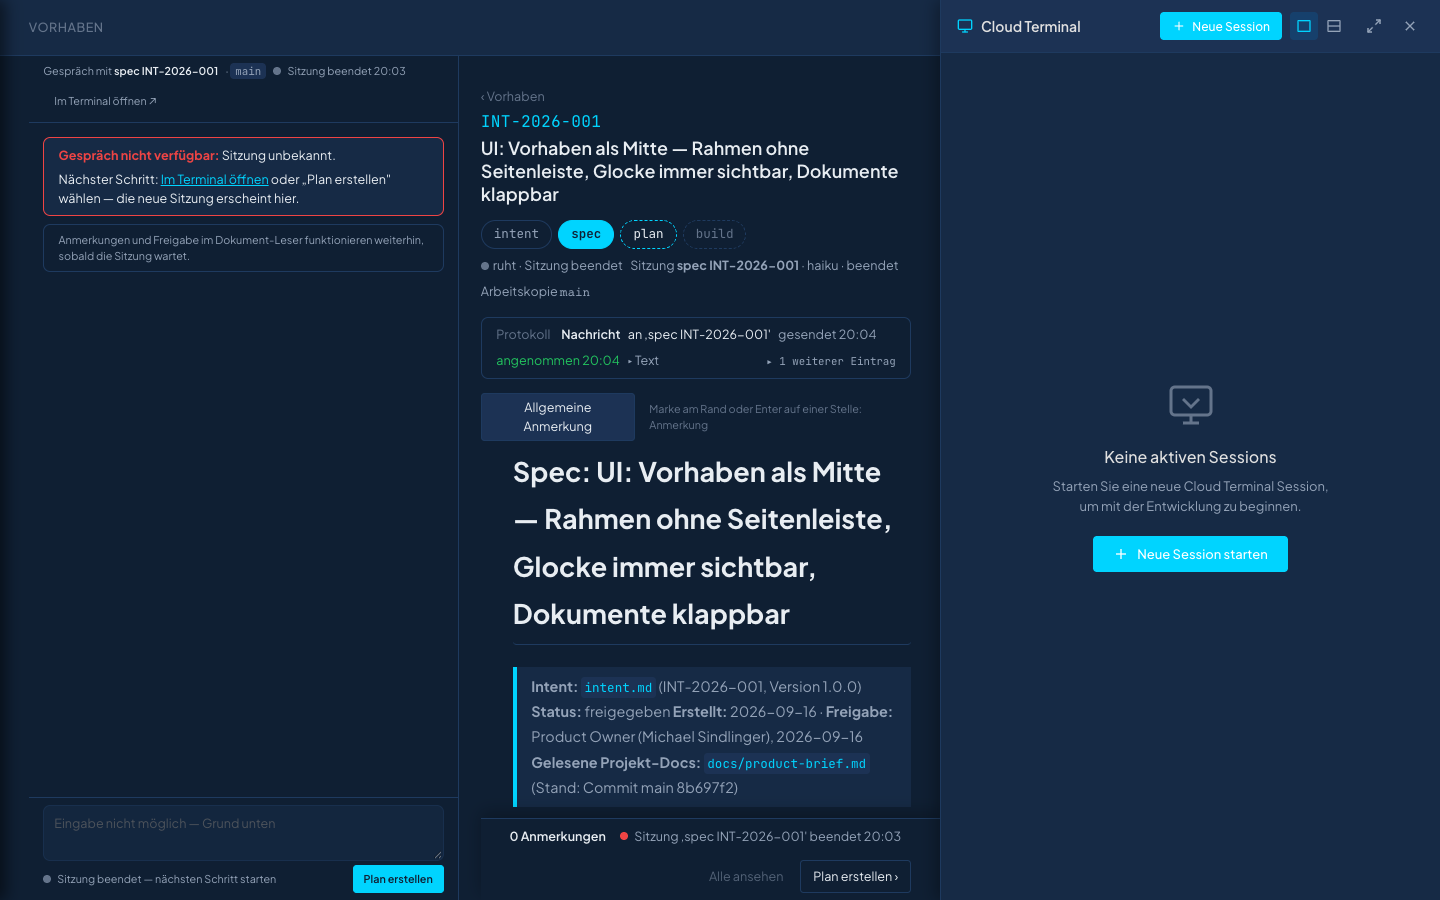
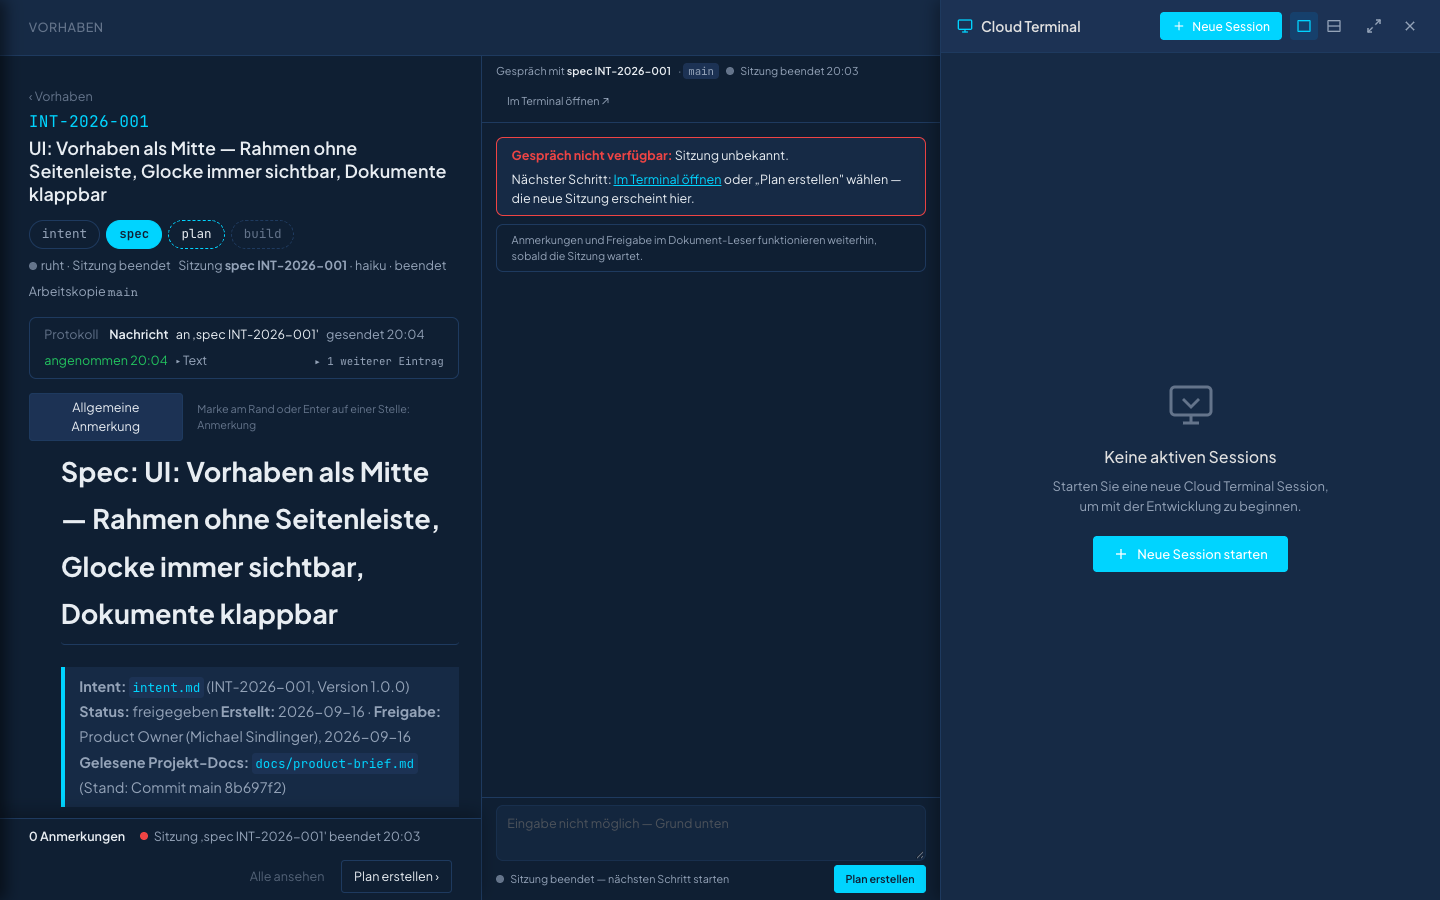
fix(INT-2026-010): Vorhaben-Seite gedreht — Dokument links, Gespräch rechts (50/50)
PO-Entscheidung nach Sicht des Split-Fix (PR #59): Gespräch doch rechts,
Dokument links, weiterhin je halbe Inhaltsbreite. Abweichung von FA-12,
festgehalten in plan §14; Spec-Text noch nicht angepasst.

DOM-Reihenfolge Seite → Gespräch (beide Routen), Grid-Spalten getauscht.
Gespräch als Panel fixiert am rechten Rand, bündig mit der Terminal-Sidebar
(Breite Spalte + View-Padding, linke Kante = Spaltenkante). Sende-Leiste von
links bis zur Gesprächskante: --gespraech-versatz ist jetzt das View-Padding,
das das Panel abdeckt. Unter 1024 px unverändert Dokument über Gespräch, das
`order` entfällt.

Nachweis: Geometrie bei 1440, 1440 + Terminal, 900 px gegen Branch-Backend
3111 (6/6, e2e-protokoll.txt, Screenshots ist-04-vorhaben-*.png neu); Tests
view-split und neue-absicht angepasst; verify: OK.

diff --git a/ui/frontend/src/styles/theme.css b/ui/frontend/src/styles/theme.css
@@ -5801,7 +5801,7 @@ aos-model-selector .model-option.selected .model-name {
   /* R-10: the split needs the full width, not the 1180 px reader column */
   max-width: none;
 }
-/* INT-2026-010 (FA-12, Skizze 3): Gespräch links, Dokument rechts, 50/50.
+/* INT-2026-010 (FA-12): Dokument links, Gespräch rechts, 50/50.
    `--gespraech-width` = half of the view's content width (viewport minus
    terminal sidebar, file tree and the view padding, minus the gap); set by
    aos-vorhaben-view as GESPRAECH_BREITE. */
@@ -5811,15 +5811,17 @@ aos-model-selector .model-option.selected .model-name {
   gap: var(--spacing-lg);
   align-items: start;
 }
-/* The first column only reserves the width; the Gespräch itself is fixed to
-   the viewport (main-content has overflow-x:hidden → sticky never engages),
-   flush with the view's left padding, above the send bar's row. */
-.vorhaben-split-gespraech {
+/* The second column only reserves the width; the Gespräch itself is fixed to
+   the viewport (main-content has overflow-x:hidden → sticky never engages) as
+   a panel flush with the terminal sidebar: column width plus the view's right
+   padding, so its left edge is the column's left edge. Above the send bar's
+   row. */
+.vorhaben-split > aos-vorhaben-seite,
+.vorhaben-split > .neue-absicht {
   grid-column: 1;
   min-width: 0;
 }
-.vorhaben-split > aos-vorhaben-seite,
-.vorhaben-split > .neue-absicht {
+.vorhaben-split-gespraech {
   grid-column: 2;
   min-width: 0;
 }
@@ -5827,10 +5829,10 @@ aos-model-selector .model-option.selected .model-name {
   position: fixed;
   top: var(--header-height, 56px);
   bottom: 0;
-  left: calc(var(--file-tree-open-width, 0px) + var(--spacing-xl));
-  width: var(--gespraech-width, 500px);
+  right: var(--terminal-open-width, 0px);
+  width: calc(var(--gespraech-width, 500px) + var(--spacing-xl));
   z-index: 40;
-  transition: left 0.3s ease, width 0.3s ease;
+  transition: right 0.3s ease, width 0.3s ease;
 }
 .gespraech {
   height: 100%;
@@ -5838,7 +5840,7 @@ aos-model-selector .model-option.selected .model-name {
   flex-direction: column;
   min-height: 0;
   background: var(--color-bg-primary);
-  border-right: 1px solid var(--color-border);
+  border-left: 1px solid var(--color-border);
   font-family: var(--font-family);
   font-size: var(--font-size-sm);
   color: var(--color-text-primary);
@@ -6680,7 +6682,7 @@ aos-projekt-seite .abschnitt-git aos-git-status-bar {
 }
 
 /* Vorhaben page below 1024 px: document above the Gespräch (FA-20, design.md §5).
-   The Gespräch comes first in the DOM (left column on the Mac) → `order` puts it below. */
+   DOM order is already document → Gespräch; the flex column only stretches both. */
 @media (max-width: 1023px) {
   aos-app .vorhaben-split {
     display: flex;
@@ -6689,7 +6691,6 @@ aos-projekt-seite .abschnitt-git aos-git-status-bar {
   }
 
   aos-app .vorhaben-split-gespraech {
-    order: 2;
     margin-top: var(--spacing-lg);
   }
 
@@ -6708,7 +6709,7 @@ aos-projekt-seite .abschnitt-git aos-git-status-bar {
   }
 
   aos-app .vorhaben-split .gespraech {
-    border-right: none;
+    border-left: none;
     border-top: 1px solid var(--color-border);
   }
 }

diff --git a/ui/tests/unit/aos-vorhaben-view-split.test.ts b/ui/tests/unit/aos-vorhaben-view-split.test.ts
@@ -121,7 +121,7 @@ describe('aos-vorhaben-view — split with Gespräch (FA-01, NZ-01)', () => {
     route = { view: 'vorhaben', segments: ['p', 'INT-2026-003'] };
   });
 
-  it('Mac + assigned session: Gespräch left, page right (FA-12, Skizze 3) with the same row; the page gets the Gespräch width (half the content width) for its send bar', async () => {
+  it('Mac + assigned session: page left, Gespräch right (FA-12, 50/50) with the same row; the page gets the Gespräch width (half the content width) for its send bar', async () => {
     const el = await view();
     stateListener!(state([row()]));
     await settle(el);
@@ -134,13 +134,14 @@ describe('aos-vorhaben-view — split with Gespräch (FA-01, NZ-01)', () => {
     expect(seite).not.toBeNull();
     expect(gespraech).not.toBeNull();
     expect(gespraech.row.intentId).toBe('INT-2026-003');
-    // INT-2026-010: the Gespräch column comes first in the DOM (left on the Mac; CSS order puts it below the document under 1024 px)
-    expect([...split.children].map((c) => c.tagName.toLowerCase())).toEqual(['div', 'aos-vorhaben-seite']);
-    expect(split.children[0].classList.contains('vorhaben-split-gespraech')).toBe(true);
+    // INT-2026-010: document first in the DOM, the Gespräch column second (right on the Mac, below the document under 1024 px)
+    expect([...split.children].map((c) => c.tagName.toLowerCase())).toEqual(['aos-vorhaben-seite', 'div']);
+    expect(split.children[1].classList.contains('vorhaben-split-gespraech')).toBe(true);
     // 50/50: half of the content width (viewport minus terminal, file tree, view padding and gap), not a fixed clamp
     expect(seite.gespraechBreite).toMatch(/^calc\(\(100vw - var\(--terminal-open-width, 0px\) - var\(--file-tree-open-width, 0px\) - .*\) \/ 2\)$/);
     expect(seite.style.getPropertyValue('--gespraech-width')).toBe(seite.gespraechBreite);
-    expect(seite.style.getPropertyValue('--gespraech-versatz')).toContain('var(--spacing-xl)');
+    // the fixed panel also covers the view's right padding → the send bar subtracts it too
+    expect(seite.style.getPropertyValue('--gespraech-versatz')).toBe('var(--spacing-xl)');
     el.remove();
   });
 
@@ -293,9 +294,9 @@ describe('aos-vorhaben-view — started step stays on the page (FA-22, AN-S03)',
     await card.updateComplete;
     (card.shadowRoot!.querySelector('button.terminal') as HTMLButtonElement).click();
     expect(seen).toEqual(['cloud-1-7']);
-    expect(card.shadowRoot!.textContent).toContain('Gespräch links');
-    // the Gespräch column precedes the card on the route neu as well
-    expect([...el.querySelector('.vorhaben-split')!.children].map((c) => c.className)).toEqual(['vorhaben-split-gespraech', 'neue-absicht']);
+    expect(card.shadowRoot!.textContent).toContain('Gespräch rechts');
+    // the Gespräch column follows the card on the route neu as well
+    expect([...el.querySelector('.vorhaben-split')!.children].map((c) => c.className)).toEqual(['neue-absicht', 'vorhaben-split-gespraech']);
     el.remove();
     mobile = true;
     const m = await view('neu');

diff --git a/ui/frontend/src/components/vorhaben/aos-sende-leiste.ts b/ui/frontend/src/components/vorhaben/aos-sende-leiste.ts
@@ -56,16 +56,17 @@ export class AosSendeLeiste extends LitElement {
 
   static override styles = css`
     /* Mac: fixed above the page (main-content has overflow-x:hidden, so sticky
-       would never engage), left of the terminal. With a Gespräch (INT-2026-010,
-       FA-12: Gespräch left, document right) the bar starts where the document
-       column starts: --gespraech-versatz is the column's left edge, set by
-       aos-vorhaben-seite; without a Gespräch both are 0 → full width. */
+       would never engage), full width from the left. With a Gespräch
+       (INT-2026-010, FA-12: document left, Gespräch right) the bar ends where
+       the Gespräch panel starts: its width plus --gespraech-versatz (the view
+       padding the panel covers), both set by aos-vorhaben-seite; without a
+       Gespräch both are 0 → up to the terminal. */
     :host {
       display: block;
       position: fixed;
       bottom: 0;
-      left: calc(var(--gespraech-versatz, 0px) + var(--gespraech-width, 0px));
-      right: var(--terminal-open-width, 0px);
+      left: 0;
+      right: calc(var(--terminal-open-width, 0px) + var(--gespraech-width, 0px) + var(--gespraech-versatz, 0px));
       z-index: 50;
       background: var(--color-bg-primary);
       border-top: 1px solid var(--color-border);
@@ -73,12 +74,12 @@ export class AosSendeLeiste extends LitElement {
       font-family: var(--font-family);
       font-size: var(--font-size-sm);
       box-shadow: 0 -6px 16px rgba(0, 0, 0, 0.25);
-      transition: right 0.3s ease, left 0.3s ease;
+      transition: right 0.3s ease;
     }
     /* Below 1024 px the Gespräch sits under the document (design.md §5) → the bar spans the full width again. */
     @media (max-width: 1023px) {
       :host {
-        left: 0;
+        right: var(--terminal-open-width, 0px);
       }
     }
     /* Phone: sticky at the bottom of the page. */

diff --git a/ui/frontend/src/components/vorhaben/aos-vorhaben-seite.ts b/ui/frontend/src/components/vorhaben/aos-vorhaben-seite.ts
@@ -113,10 +113,10 @@ export class AosVorhabenSeite extends LitElement {
   /** `lastModelKey(...)` → selection (from the state). */
   @property({ attribute: false }) lastModel: Record<string, ModelSelection> = {};
   /**
-   * CSS width of the Gespräch column left of the page (INT-2026-007, Mac
-   * only; INT-2026-010: left, 50/50); sets `--gespraech-width` and
-   * `--gespraech-versatz`, from which the fixed send bar takes its left edge.
-   * Empty = no Gespräch.
+   * CSS width of the Gespräch column right of the page (INT-2026-007, Mac
+   * only; INT-2026-010: 50/50); sets `--gespraech-width` and
+   * `--gespraech-versatz`, which the fixed send bar subtracts from its right
+   * edge. Empty = no Gespräch.
    */
   @property({ type: String }) gespraechBreite = '';
 
@@ -393,8 +393,8 @@ export class AosVorhabenSeite extends LitElement {
   protected override willUpdate(changed: PropertyValues<this>): void {
     if (changed.has('gespraechBreite')) {
       this.style.setProperty('--gespraech-width', this.gespraechBreite || '0px');
-      // Left edge of the document column (Gespräch left, FA-12): file tree + view padding + grid gap; 0 without a Gespräch.
-      this.style.setProperty('--gespraech-versatz', this.gespraechBreite ? 'calc(var(--file-tree-open-width, 0px) + var(--spacing-xl) + var(--spacing-lg))' : '0px');
+      // The fixed Gespräch panel also covers the view's right padding (theme.css .vorhaben-split aos-gespraech); 0 without a Gespräch.
+      this.style.setProperty('--gespraech-versatz', this.gespraechBreite ? 'var(--spacing-xl)' : '0px');
     }
     if (changed.has('mobile')) this.toggleAttribute('mobile', this.mobile);
     if (changed.has('doc') || (changed.has('row') && (changed.get('row') as VorhabenRow | undefined)?.intentId !== this.row?.intentId)) {

diff --git a/ui/frontend/src/views/aos-vorhaben-view.ts b/ui/frontend/src/views/aos-vorhaben-view.ts
@@ -320,12 +320,12 @@ export class AosVorhabenView extends LitElement {
         @vorhaben-session-started=${this.onSessionStarted}
       ></aos-vorhaben-seite>`;
       if (!split) return seite;
-      // Gespräch left, document right (FA-12, Skizze 3); below 1024 px the CSS puts the Gespräch under the document.
+      // Document left, Gespräch right, 50/50 (FA-12); below 1024 px the CSS stacks the Gespräch under the document.
       return html`<div class="vorhaben-split" style="--gespraech-width: ${GESPRAECH_BREITE}">
+        ${seite}
         <div class="vorhaben-split-gespraech">
           <aos-gespraech .row=${row} .protocol=${protocol.filter((e) => e.projectId === row.projectId && e.intentId === row.intentId)} @gespraech-next-step=${this.onGespraechNextStep}></aos-gespraech>
         </div>
-        ${seite}
       </div>`;
     }
     if (missing) {
@@ -393,10 +393,10 @@ export class AosVorhabenView extends LitElement {
     const sessionId = pending?.sessionId ?? claimedRow?.session?.id;
     const protocol = (this.vorhabenState?.protocol ?? []).filter((e) => e.sessionId === sessionId);
     return html`<div class="vorhaben-split" style="--gespraech-width: ${GESPRAECH_BREITE}">
+      ${block}
       <div class="vorhaben-split-gespraech">
         <aos-gespraech .row=${claimedRow} .pending=${pending} .protocol=${protocol}></aos-gespraech>
       </div>
-      ${block}
     </div>`;
   }
 }

diff --git a/ui/tests/unit/aos-neue-absicht.test.ts b/ui/tests/unit/aos-neue-absicht.test.ts
@@ -121,7 +121,7 @@ describe('aos-neue-absicht (FA-10, FA-11)', () => {
     el.remove();
   });
 
-  it('pending session: the card replaces the form — Mac „Gespräch links", phone „im Terminal antworten" with a terminal button; the pending first input is named until delivered (AK-06, plan §3)', async () => {
+  it('pending session: the card replaces the form — Mac „Gespräch rechts", phone „im Terminal antworten" with a terminal button; the pending first input is named until delivered (AK-06, plan §3)', async () => {
     const seen: string[] = [];
     const onOpen = (e: Event): void => {
       seen.push((e as CustomEvent<{ sessionId: string }>).detail.sessionId);
@@ -131,7 +131,7 @@ describe('aos-neue-absicht (FA-10, FA-11)', () => {
     const sr = el.shadowRoot!;
     expect(sr.querySelector('textarea')).toBeNull();
     expect(sr.textContent).toContain('Absicht-Sitzung „intent" läuft — Vorhaben entsteht');
-    expect(sr.textContent).toContain('Gespräch links');
+    expect(sr.textContent).toContain('Gespräch rechts');
     expect(sr.textContent).toContain('Dein Text wird nach der ersten Frage übergeben.');
     (sr.querySelector('button.terminal') as HTMLButtonElement).click();
     expect(seen).toEqual(['cloud-1-7']);

diff --git a/ui/frontend/src/components/vorhaben/aos-gespraech.ts b/ui/frontend/src/components/vorhaben/aos-gespraech.ts
@@ -24,11 +24,11 @@ import './aos-gespraech-eingabe.js';
 
 /** Width of the Gespräch column on the Mac (plan §3 A.9: 420–540 px). */
 /**
- * Width of the Gespräch column on the Mac (INT-2026-010, FA-12, Skizze 3):
- * half of the view's content width — viewport minus terminal sidebar and file
- * tree (both set on <html>), minus the view padding on both sides, minus the
- * grid gap. The view sets it as `--gespraech-width`; the page's fixed send
- * bar and the fixed Gespräch read it.
+ * Width of the Gespräch column right of the page on the Mac (INT-2026-010,
+ * FA-12): half of the view's content width — viewport minus terminal sidebar
+ * and file tree (both set on <html>), minus the view padding on both sides,
+ * minus the grid gap. The view sets it as `--gespraech-width`; the page's
+ * fixed send bar and the fixed Gespräch panel read it.
  */
 export const GESPRAECH_BREITE = 'calc((100vw - var(--terminal-open-width, 0px) - var(--file-tree-open-width, 0px) - 2 * var(--spacing-xl) - var(--spacing-lg)) / 2)';
 

diff --git a/ui/frontend/src/components/vorhaben/aos-neue-absicht.ts b/ui/frontend/src/components/vorhaben/aos-neue-absicht.ts
@@ -229,7 +229,7 @@ export class AosNeueAbsicht extends LitElement {
   private renderPending(p: VorhabenPendingIntent) {
     return html`<div class="karte gestartet">
       <span><span class="dot"></span>Absicht-Sitzung „${p.session.name}" läuft — Vorhaben entsteht …</span>
-      <span class="status">${this.mobile ? 'im Terminal antworten' : 'Gespräch links'} — die Vorhaben-Seite öffnet sich, sobald der Ordner da ist</span>
+      <span class="status">${this.mobile ? 'im Terminal antworten' : 'Gespräch rechts'} — die Vorhaben-Seite öffnet sich, sobald der Ordner da ist</span>
       ${p.session.firstInputPending ? html`<span class="uebergabe">Dein Text wird nach der ersten Frage übergeben.</span>` : nothing}
       <button type="button" class="terminal" @click=${this.toTerminal}>Im Terminal öffnen ↗</button>
     </div>`;

diff --git a/intent/INT-2026-010-ui-vorhaben-als-mitte/plan.md b/intent/INT-2026-010-ui-vorhaben-als-mitte/plan.md
@@ -546,3 +546,4 @@ Meilensteine = die drei PRs (§6). Größter Unsicherheitsfaktor: E2E-Läufe mit
 | 2026-09-16 (S2) | Aktionsleiste (nächster Schritt, „Freigeben", Handy: Terminal) steht am Ende des Dokuments (Scrollen nötig), nicht fest am unteren Rand | Der feste untere Rand gehört der Sende-Leiste für Anmerkungen (Stufe 1); zwei feste Leisten übereinander würden den Leser verdecken. Skizze 3 zeigt den Knopf „unter dem Dokument" | §3 Vorhaben-Seite, §8 UI |
 | 2026-09-16 (S2) | E2E-Zeitfenster: Haikus erster Turn bei `/specwright:spec` dauerte 109 s bzw. 178 s bis zum ersten Stop (Spec in einem Zug geschrieben, Status selbst gesetzt); die Zustellung der Freigabe erfolgte jeweils beim ersten Stop, in Lauf 2 außerhalb des 120-s-Fensters des Skripts (per WS-Snapshot bestätigt) | Das Skript misst ab Start; die Wartezeit hängt vom Agenten ab, nicht von der UI | §8 E2E |
 | 2026-09-16 (Fix nach S2) | Split der Vorhaben-Seite: Gespräch **links**, Dokument **rechts**, je halbe Inhaltsbreite (`grid 1fr 1fr`, `GESPRAECH_BREITE` = `calc((100vw − Terminal − Dateibaum − 2·Padding − Gap) / 2)`, Gespräch fixiert am linken View-Rand, Sende-Leiste ab der Dokumentspalte); unter 1024 px Dokument über Gespräch per Flex-Spalte mit `order`. Route `neu` gleich (Gespräch links der Karte). Eigener PR `fix/INT-2026-010-split` | Befund von Michael nach dem Merge von PR #58: Layout aus INT-2026-007 (Dokument `1fr`, Gespräch rechts fest `clamp(420px, 34vw, 540px)`) war nie an Skizze 3 / FA-12 („links das Gespräch, rechts das Dokument") angepasst; Plan §3 hatte Seite und Breite nicht genannt, das S1-Protokoll die falsche Zuordnung als Mock-Treffer gewertet. Dabei zwei Altfehler unter 1024 px behoben (`aos-gespraech` inline, `align-items: start`) | §3 Vorhaben-Seite, §8 UI, §4 #20/#61/#63 |
+| 2026-09-16 (Fix nach Split-Fix) | Split der Vorhaben-Seite wieder gedreht: Dokument **links**, Gespräch **rechts**, weiterhin je halbe Inhaltsbreite (`grid 1fr 1fr`, `GESPRAECH_BREITE` unverändert). Gespräch als Panel fixiert am rechten Rand (bündig mit der Terminal-Sidebar, Breite Spalte + View-Padding, linke Kante = Spaltenkante), Sende-Leiste von links bis zur Gesprächskante (`--gespraech-versatz` = View-Padding). Unter 1024 px unverändert Dokument über Gespräch, `order` entfällt (DOM-Reihenfolge Seite → Gespräch). Route `neu` gleich (Gespräch rechts der Karte). Eigener PR `fix/INT-2026-010-gespraech-rechts` | PO-Entscheidung (Michael, Chat 16.09. abends) nach Sicht des Split-Fix-Stands: Gespräch doch rechts, Dokument links; **Abweichung von FA-12** („links das Gespräch, rechts das Dokument") — Spec-Text noch nicht angepasst | §3 Vorhaben-Seite, §8 UI, §4 #20/#61/#63 |
